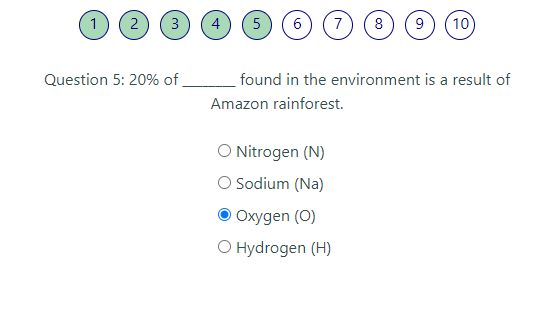
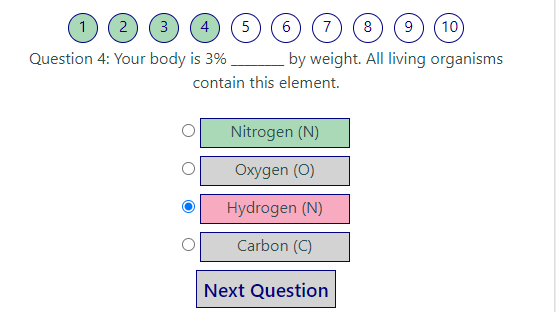
Updated structure and scope in readme

diff --git a/assets/js/myscript2.js b/assets/js/myscript2.js
@@ -102,8 +102,6 @@ function countdown() {
         // If the count down is finished, write some text
         if (distance < 0) {
             clearInterval(x);
-            document.getElementById("timer1").innerHTML = `<h3>TIME'S UP!</h3>`;
-            
             // end the game early
             endGameEarly();
             }
@@ -217,7 +215,7 @@ function endGameEarly() {
     } else if ($("#submit_answer")[0].className=="show") {
         $("#submit_answer").removeClass("show").addClass("hide"); 
     }
-    document.getElementById("timer").innerHTML="Time's up!";
+    document.getElementById("timer1").innerHTML = `<h3>TIME'S UP!</h3>`;
     // display overall feedback to user
     overallFeedback();
 }
@@ -346,7 +344,7 @@ function endGame() {
     // if timer stop timer and show text
     if (timer=="yes") {
         clearInterval(x);
-        document.getElementById("timer1").innerHTML=`<h3>GAME COMPLETE!</h3>`;
+        document.getElementById("timer1").innerHTML = `<h3>GAME COMPLETE!</h3>`;
         // x=countdown();
         // return x;
     }

diff --git a/assets/css/style.css b/assets/css/style.css
@@ -1,7 +1,3 @@
-/* Google fonts */
-
-/* @import url('https://fonts.googleapis.com/css2?family=Montserrat:ital,wght@0,100;0,200;0,300;0,400;0,500;0,600;0,700;0,800;0,900;1,100;1,200;1,300;1,400;1,500;1,600;1,700;1,800;1,900&family=Roboto+Slab:wght@100;200;300;400;500;600;700;800;900&display=swap'); */
-
 /* General rules - font family, size and colour*/
 
 * {
@@ -11,7 +7,6 @@
 }
 
 h1, h2, h3, h4, h5, h6 {
-    /* font-family: 'Roboto Slab', serif; */
     color: navy;
 }
 
@@ -24,7 +19,6 @@ h3 {
 }
 
 body {
-    /* font-family: 'Montserrat', sans-serif; */
     color: darkslategrey;
 }
 
@@ -42,7 +36,6 @@ body {
  .navbar-light .navbar-brand {
     font-size: 1.8rem;
     color: navy;
-    /* font-family: 'Roboto Slab', serif;  */
     font-weight: 600;
 }
 

diff --git a/README.md b/README.md
@@ -29,7 +29,6 @@ Mockups:
    * [Wireframes Comments](#wireframes-comments)
   * [Skeleton](#skeleton)
     * [Colours](#colours)
-    * [Typography](#typography)
     * [Imagery](#imagery)
   * [Surface](#surface)
 * [Features](#features)
@@ -46,8 +45,6 @@ Mockups:
   * [Online Validation](#online-validation)
   * [Lighthouse Validation](#lighthouse-validation) 
   * [User Stories from the UX Section](#user-stories-from-the-ux-section)
-  * [Fixed Bugs](#fixed-bugs)
-  * [Fixed Bugs](#fixed-bugs)
 * [Deployment](#deployment)
   * [Creation](#creation)
   * [GitHub Pages](#github-pages)
@@ -122,12 +119,12 @@ the difficulty level of the quiz they want and if they want it to be a timed qui
 
 * The home page will contain a start button for the user to start the quiz using the options they selected above.
 
+* The quiz page will clearly display what question the user is on, how many they have answered and how many are left to complete.
+
 * The quiz page will display clear feedback to the user after each question.
 
 * The quiz page will display a users score/progress in terms of a progress bar 
 with different colours to represent correct/incorrect answers.
-
-* The quiz page will clearly display what question the user is on, how many they have answered and how many are left to complete.
 
 * The quiz page will also have a buttons for the user to progress to the next question, 
 restart the current quiz questions again or to the home page and reselect the options for their quiz.
@@ -156,6 +153,8 @@ to start the current quiz questions again.
 
 At the end of the quiz the site will show how many questions the user answered, the number correct and incorrect (with percentages). 
 At this point the site will show the play again button to take the user to the home page, where they can reselect choices and play another quiz.
+
+If the user decides to have a timed quiz the timer will be shown above the progress bar.
 
 ### Skeleton
 
@@ -196,6 +195,7 @@ Please note there are a few changes to the final site since the wireframes were 
 
   * The quiz page contains the image of the periodic table of elements from the home page, this gives users a reference when answering the questions.
   * On a phone the restart button is below the reselct button due to limited space.
+  * On the quiz page the location of the timer was not included, in the final site this was located above the progress bar.
 
 ### Surface
 
@@ -204,8 +204,6 @@ I used the image of the periodic table of elements to get the colours used in th
 I used a muted green (#aad9b8), yellow (#fcf9bf) and red (#f7aac0) from this image using the Toggle color picker 
 within chrome developer tools. 
 For the navbar and headings text I picked navy and other text uses darkslategrey.
-
-#### Typography
 
 #### Imagery
 I picked a image of the periodic table of elements as credited in the credits - media
@@ -227,10 +225,12 @@ The user can pick if there is a timer on the quiz or not. After selecting option
 
 * The quiz page has multiple features:
   * Contains the image of the periodic table of elements from the home page, this gives users a reference when answering the questions.
+  * Shows the countdown for timed quizzes.
   * Shows the user what question they are on, how many they have completed and how many are left.
   * Shows the current question and its options, the order of questions is randomized.
   * Contains submit and next question buttons allowing the user to progress through the quiz questions (only one button is shown at a time).
   * After submitting an answer for each question the user is provided with feedback in text form.
+  * After submitting an answer if correct the selected/correct option is highlighted in green and if incorrect the selected option is highlighted in pink and the correct answer is highlighted in green.
   * After submitting an answer for each question the progress bar is updated showing the percentage of correct/incorrect answers so far.
   * Contains buttons allowing the user to restart the current quiz questions again or to the home page and reselect the options for their quiz.
 
@@ -262,11 +262,6 @@ this could allow the user to track their progress and also compare to others.
 
 * [GitHub](https://github.com/) - used to store the current and previous versions of the code. It was also used to host the live website through GitHub Pages. 
 
-* [Google Fonts](https://fonts.google.com/) - used to import the Roboto Slab and Montserrat font families that 
-are used throughout the website.
-
-* [Font Awesome](https://fontawesome.com/) - used to display the social media icons in the footer of each page.
-
 * [Balsamiq Wireframes](https://balsamiq.com/wireframes/) - used to create the wireframes for the website.
 
 * [Tinypng](https://tinypng.com/) - used to compress the images so they loaded quicker on the website.
@@ -280,7 +275,7 @@ are used throughout the website.
 Expected - I expected the variables I saved (taken from user input on home page), to be available to use in the quiz.
 
 Testing - I tested this by logging the varaible values to the console and commenting out the below code 
-which worked, however when the user was directed to the quiz page (below code was included out) these variables were lost.
+which worked, however when the user was directed to the quiz page (below code was not commented out) these variables were lost.
 
 > document.getElementById("user-options").submit();
 
@@ -343,30 +338,25 @@ Testing - Tested the feature by going through a quiz and checking the progress b
 
 Result - The feature acted as normally and it did update based on what number/percentage of questions are correct/incorrect.
 
-### Other 
+### Timer
 
-structure:
+Expected - Expected the timer to start at 5/10 minutes 0 seconds.
 
-Expected -Feature is expected to do X why the user does Y
+Testing - Tested the feature by loading a 5 or 10 minute quiz.
 
-Testing - Tested the feature by doing Y
+Result - The feature did not respond as expected and started at 4 minutes 58 seconds.
 
-Result - The feature did not respond due to A,B,C
-
-or
-
-Result - The feature acted as normally and it did Y
-
-Fix - I did Z to the code because something was missing
+Fix - I did ... add some text.
 
 ### Online Validation
 
-* I checked the website loads and responds as expected on Google Chrome, Microsoft Edge and Internet Explorer browsers.  
+* I checked the website loads and responds as expected on Google Chrome, and Microsoft Edge browsers. 
+I tested on Internet Explorer but the quiz did not work possibly due to the the version of Internet Explorer on my laptop being old.
 
 * Used chrome developer tools and [responsinator](https://www.responsinator.com/) to check responsiveness on mobile, tablet and laptop devices.  
 I also checked the website on my HP 15 inch laptop, Philips 20 inch monitor and Sony smartphone.
 
-* Used the [w3c validator](https://validator.w3.org/) to validate my html (for all 3 pages of the website) to check for no errors or warnings. 
+* Used the [w3c validator](https://validator.w3.org/) to validate my html (for both pages of the website) to check for no errors or warnings. 
 * Used the [jigsaw validator](https://jigsaw.w3.org/css-validator/#validate_by_input) to validate my style.css file to check for no errors or warnings. 
 I did not validate css of the whole website as this included the imported bootstrap files.
 
@@ -423,10 +413,6 @@ Full reports can be found below:
 
   * Are the same as the user goals for this project, to enjoy playing the game and learn new facts!
     * How the site acomplishes this.
-
-### Fixed Bugs
-
-#### Minor Fixes
 
 ## Deployment
 
@@ -490,7 +476,8 @@ and [zmescience](https://www.zmescience.com/science/chemistry/amazing-chemistry-
 These provided the question text and correct answer, 
 for the incorrect options I chose these myself.
 
-* I had a look at exisiting quizzes on sites to gain information on what features to include for my own quiz game: xxxxx.
+* I had a look at [Lovatts puzzles](https://lovattspuzzles.com/online-puzzles-competitions/ultimate-online-trivia-quiz/) 
+to gain information on what features to include for my own quiz game.
 
 ### Media
 
@@ -509,5 +496,4 @@ for the incorrect options I chose these myself.
 
 * Thanks to the fellow students on Slack and my friends who viewed the website and gave feedback on any improvements/changes that could be made. 
 
-* The websites that I used to gain inspiration for creating my own quiz 
-([website1](https://hall-place.com/) and [website2](http://palmers-stables.com/)).
+* The website that I used to gain inspiration for creating my own quiz: [Lovatts puzzles](https://lovattspuzzles.com/online-puzzles-competitions/ultimate-online-trivia-quiz/).
